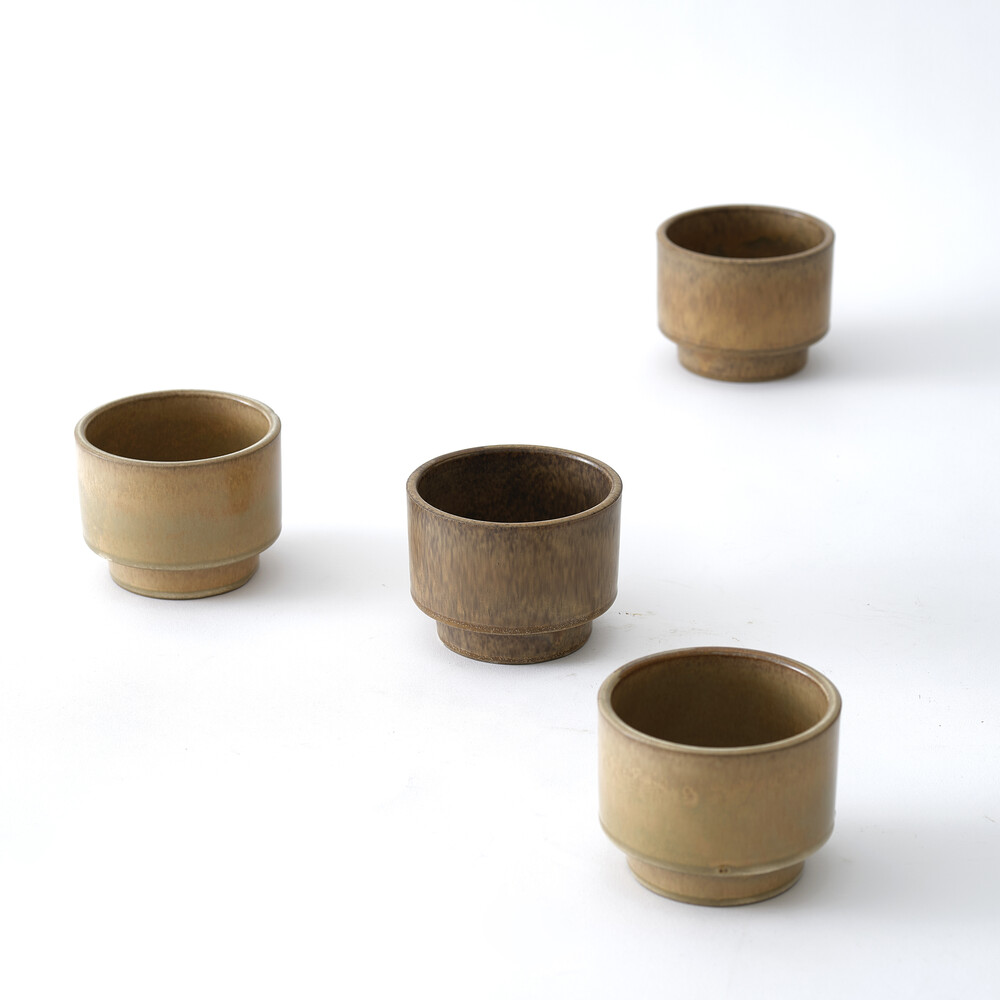
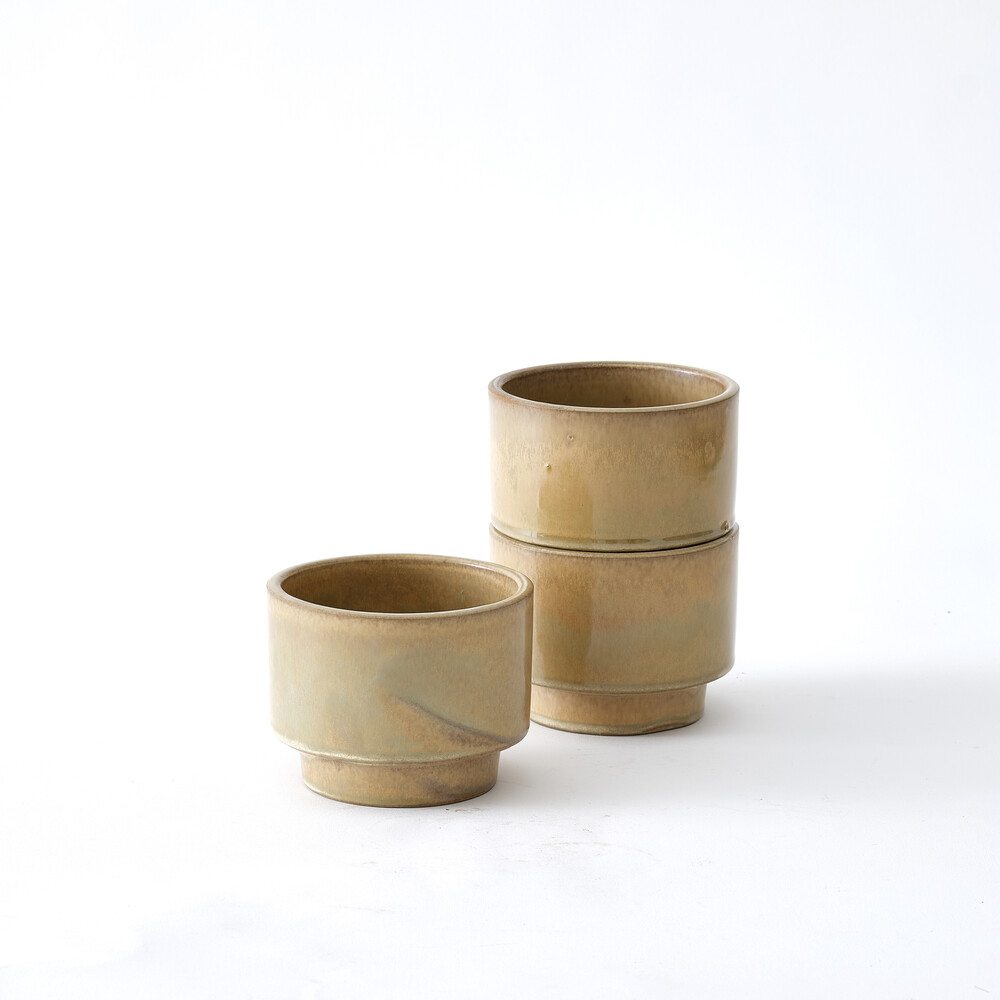
FEAT: hover 및 폰트 추가

diff --git a/public/main/style.css b/public/main/style.css
@@ -37,6 +37,7 @@
     height: 400px;
     background: url("./Product_Img.jpg") no-repeat center center;
     background-size: contain;
+    transition: all 0.5s;
 }
 
 .Product_Name{
@@ -47,4 +48,11 @@
 .Product_Price{
     font-family: 500;
     margin-top: 10px;
+}
+
+.Product_Img:hover{
+    width: 520px;
+    height: 420px;
+    background: url("./Product_Hover.jpg") no-repeat center center;
+    background-size: contain;
 }
